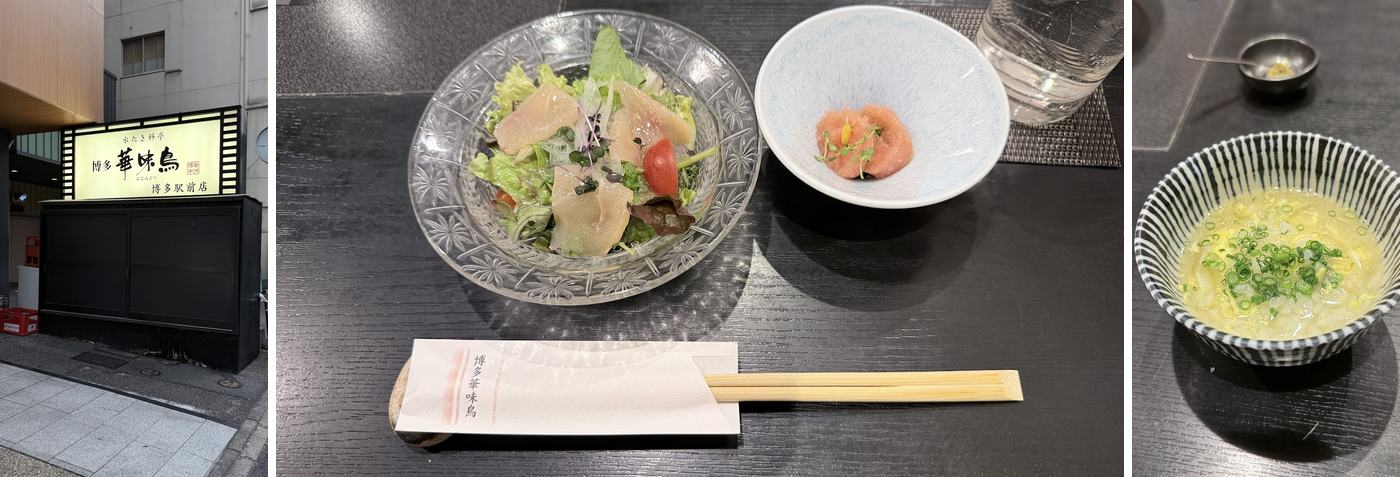
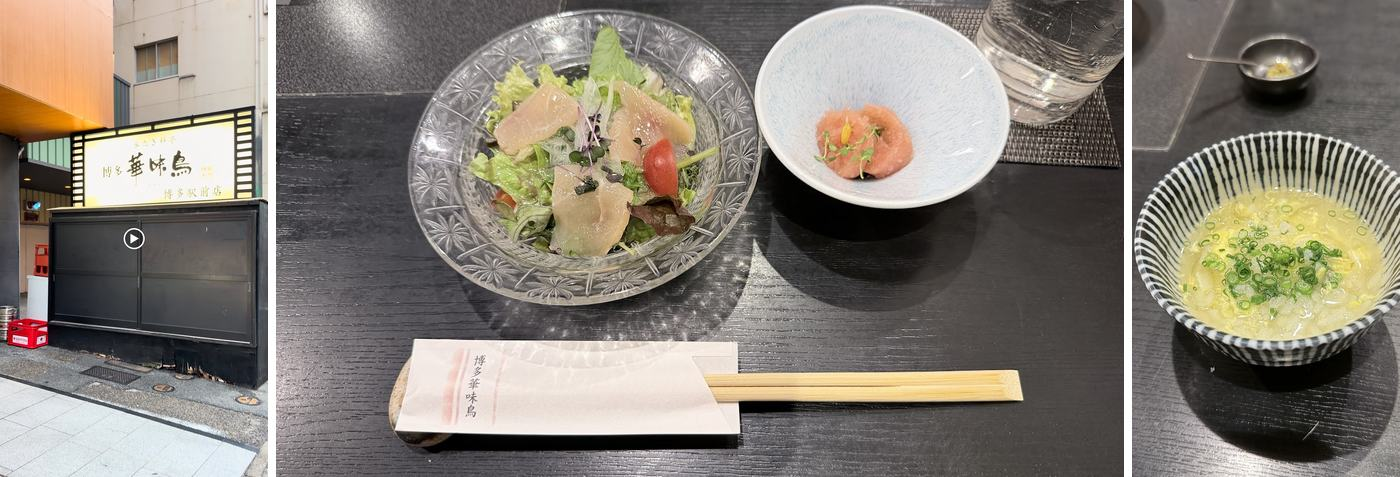
九州: shop intros for 暖暮, 鰻のエイト, むらた, 華味鳥, 勝烈亭, 吉吾, かさの家, 天山
Claude-Session: https://claude.ai/code/session_01YKvPvfkhjaPv18r36TCYqA

Changed region(s): [[0.0, 0.0, 0.215, 1.0]]

diff --git a/content/posts/2026-10-24-kyushu-first-trip/index.md b/content/posts/2026-10-24-kyushu-first-trip/index.md
@@ -63,10 +63,19 @@ cover:
 
 ## 🗓 12/9：福岡・博多
 
-{{< figure src="gallery/01-hanamidori.jpg" caption="博多華味鳥的水炊鍋：前菜、湯頭，最後煮成雜炊" align="center" >}}
+### 博多華味鳥 博多站前店（水炊鍋）
+
+{{< figure src="gallery/01-hanamidori.jpg" caption="左：博多華味鳥 博多站前店；中：前菜；右：最後煮成的雜炊" align="center" >}}
 
 第一天傍晚抵達，住博多站附近的 **VIA INN**。晚餐吃福岡名物 **水炊鍋（水炊き）**：
 雞骨熬的白湯先喝一碗，再下雞肉和蔬菜，最後加飯和蛋煮成**雜炊**，是整趟最暖胃的一餐。
+
+| 項目 | 內容 |
+|---|---|
+| 📍 地點 | 博多站前（博多駅前店）<br>[Google 地圖](https://www.google.com/maps/search/?api=1&query=博多華味鳥+博多駅前店) |
+| 🍲 必點 | 水炊鍋套餐，最後一定要加**雜炊** |
+| 💡 小撇步 | 有**中文說明**教你怎麼吃，店員也會幫忙 |
+{.trip-facts}
 
 {{< figure src="gallery/02-hakata-xmas.jpg" caption="博多站前的聖誕燈飾和聖誕樹" align="center" >}}
 
@@ -105,9 +114,12 @@ cover:
 
 {{< figure src="gallery/08-bspeak.jpg" caption="B-speak 的 P-roll 瑞士捲" align="center" >}}
 
-- 🍰 **B-speak**：由布院最有名的**瑞士捲（P-roll）**，蛋糕超鬆軟，常常中午前就賣完。
+- 🍰 **B-speak**：由布院最有名的**瑞士捲（P-roll）**，蛋糕超鬆軟、奶油很輕，常常中午前就賣完，**建議一到由布院就先去買**。
+- 🍗 **中津炸雞 吉吾（KICHIGO）**：大分中津是日本炸雞的發源地，湯之坪街道上的吉吾**排隊人潮不斷**，現炸的炸雞外皮酥脆、肉汁很多，元祖炸雞（雞腿）3 個 ¥570 起，邊走邊吃剛好。
 - 🍫 **Snoopy Chocolat**：史努比主題的巧克力店，造型很可愛。
 - 🐐 **由布院 Floral Village**：英國小鎮風格的園區，有小動物和可愛的店。
+
+{{< figure src="gallery/08b-kichigo.jpg" caption="中津炸雞 吉吾：現炸的炸雞" align="center" >}}
 
 {{< figure src="gallery/09-floral-village.jpg" caption="Floral Village：左：小山羊；右：黃色的復古小車" align="center" >}}
 
@@ -157,9 +169,19 @@ cover:
 
 ### 熊本站：勝烈亭豬排
 
+{{< figure src="gallery/16-katsuretsutei.jpg" caption="左：勝烈亭 熊本站店；右：厚切炸豬排" align="center" >}}
+
+晚上到熊本，在熊本站吃**勝烈亭（かつれつ亭）**。熊本最有名的炸豬排店之一，
+豬排**外皮酥脆、肉很厚又多汁**。
+
+| 項目 | 內容 |
+|---|---|
+| 📍 地點 | JR 熊本站<br>[Google 地圖](https://www.google.com/maps/search/?api=1&query=勝烈亭+熊本駅) |
+| 💡 小撇步 | 晚餐時段要排隊，也可以**外帶便當**在車上吃 |
+{.trip-facts}
+
 {{< figure src="gallery/16-kumamoto-station.jpg" caption="左：勝烈亭的炸豬排；右：熊本站的熊本熊" align="center" >}}
 
-晚上到熊本，在熊本站吃**勝烈亭**的炸豬排，外皮酥脆、肉很厚。
 熊本站裡到處都是**熊本熊**，一出車站就有熊本熊在等你。
 
 ---
@@ -239,9 +261,37 @@ cover:
 從博多搭直達巴士「旅人」約 40 分鐘到太宰府，**學問之神菅原道真**的神社，考生和學生必拜。
 本殿目前正在整修，旁邊有一座屋頂長滿植物的**臨時本殿**，很特別。
 
-參道上一定要吃**梅枝餅（梅ヶ枝餅）**，外皮烤得酥香、裡面是紅豆餡，現烤的最好吃。
+### 太宰府參道吃什麼
 
-{{< figure src="gallery/23-dazaifu-food.jpg" caption="左：熱呼呼的梅枝餅；右：午餐的豚骨拉麵" align="center" >}}
+**🍡 かさの家（梅枝餅）**
+
+參道上一定要吃**梅枝餅（梅ヶ枝餅）**，外皮烤得酥香、裡面是紅豆餡，現烤的最好吃。
+參道上有很多家在賣，我買的是老店 **かさの家**，**一個 ¥150**，要買多個看價目表就很清楚。
+
+{{< figure src="gallery/23-umegae.jpg" caption="左：かさの家的梅枝餅；右：梅枝餅價目表" align="center" >}}
+
+**🍓 天山（草莓大福）**
+
+參道上的和菓子店 **天山**，招牌是用福岡**甘王草莓（あまおう）**做的**草莓大福**，
+一整顆大草莓放在白色麻糬上，看起來超可愛，酸甜剛好。
+
+{{< figure src="gallery/23b-tenzan.jpg" caption="左：天山的甘王草莓大福；右：店頭排滿的草莓大福" align="center" >}}
+
+**🍜 暖暮拉麵 太宰府站前店（午餐）**
+
+**暖暮（DANBO）**是福岡的人氣豚骨拉麵連鎖，曾拿下**九州拉麵總選舉第一名**。
+湯頭是濃郁但不油膩的豚骨，麵條是博多細麵；想吃辣可以點**烈火拉麵**。
+太宰府站前店就在車站旁，**逛完參道剛好來吃**。
+
+{{< figure src="gallery/23c-danbo.jpg" caption="左：暖暮 太宰府站前店；右：半熟玉子拉麵" align="center" >}}
+
+| 項目 | 內容 |
+|---|---|
+| 📍 地址 | 太宰府市宰府 1-14-24<br>[Google 地圖](https://www.google.com/maps/search/?api=1&query=ラーメン暖暮+太宰府駅前店) |
+| 💰 價格 | 拉麵 ¥880<br>半熟玉子拉麵 ¥1,030 |
+| 💳 付款 | **只收無現金支付**<br>（信用卡、電子錢包、QR） |
+| 🍜 加點 | 替玉（加麵）¥200 |
+{.trip-facts}
 
 {{< figure src="gallery/24-dazaifu-station.jpg" caption="左：太宰府站；右：西鐵電車" align="center" >}}
 
@@ -257,9 +307,24 @@ cover:
 
 {{< figure src="gallery/26-hakata-old-town.jpg" caption="左：金黃的銀杏大道；右：舊市街的紅鳥居" align="center" >}}
 
-晚上吃了**鰻魚飯**，有蒸籠鰻魚和石鍋鰻魚飯，搭配九州的地酒。
+### 鰻のエイト（鰻魚飯）
 
-{{< figure src="gallery/27-unagi.jpg" caption="左：鰻魚飯；右：石鍋鰻魚飯" align="center" >}}
+{{< figure src="gallery/27-unagi.jpg" caption="左：鰻のエイト的門簾；中：蒸籠鰻魚飯；右：鰻魚牛肉石燒御膳" align="center" >}}
+
+晚餐在中洲的 **鰻のエイト（unagi no eito）**，門簾上的「∞」很好認。
+店裡用**九州的甜醬油**做醬汁，我們點了兩種：
+
+- 🍱 **せいろむし御膳（蒸籠鰻魚飯）**：醬汁拌飯後鋪上鰻魚和玉子燒，放進蒸籠蒸，飯軟嫩入味。
+- 🔥 **鰻と牛肉の石焼き御膳**：鰻魚加上調味牛肉、玉子燒，放在熱石鍋裡，最後鍋巴超香。
+
+兩種都可以照桌上的說明**分三種吃法**：直接吃、加佐料、最後倒高湯做成茶泡飯。
+
+| 項目 | 內容 |
+|---|---|
+| 📍 地址 | 福岡市博多區中洲 4-1-11<br>[Google 地圖](https://share.google/mgWfRvBS5W5ui1xGq) |
+| 💰 價格 | 兩種御膳同價<br>上 ¥3,850／特上 ¥4,550<br>極上 ¥5,350 |
+| 🚇 交通 | 地下鐵「中洲川端站」走路即到 |
+{.trip-facts}
 
 ---
 
@@ -271,21 +336,39 @@ cover:
 
 {{< figure src="gallery/29-momiji2.jpg" caption="左：紅色的鳥居；右：附近的池塘" align="center" >}}
 
-中午吃了**十割蕎麥麵**，下午在博多站買**明太子**伴手禮，再去機場。
+### 信州そば むらた（蕎麥麵）
 
-{{< figure src="gallery/30-soba-souvenir.jpg" caption="左：十割蕎麥麵和天婦羅；右：明太子口味洋芋片" align="center" >}}
+{{< figure src="gallery/30-soba.jpg" caption="左：むらた的入口；中：牡蠣天婦羅蕎麥麵；右：上天婦羅旨辛肉蕎麥麵" align="center" >}}
+
+博多舊市街裡的老字號**手打蕎麥麵店**，入口是石牆和格子門，很有氣氛。開店前就有人排隊，門口有**登記表**，寫上名字等叫號。
+
+招牌是**數量限定的十割蕎麥**（100% 蕎麥粉），香氣很濃；冬天限定的**牡蠣天婦羅蕎麥麵**也很推，天婦羅裡的牡蠣很飽滿。
+
+| 項目 | 內容 |
+|---|---|
+| 📍 地址 | 福岡市博多區冷泉町 2-9-1<br>[Google 地圖](https://share.google/FMcUsvM3HoK4N1clr) |
+| 💰 價格 | 十割そば ¥1,150（數量限定）<br>牡蠣天そば ¥2,200（溫）<br>上天ぷら旨辛肉そば ¥3,100 |
+| 🕘 時間 | 約 11:30–21:00，**週一公休** |
+| 🚇 交通 | 地下鐵「祇園站」走路約 5 分鐘 |
+{.trip-facts}
+
+### 博多站買伴手禮
+
+{{< figure src="gallery/31-souvenir.jpg" caption="左：博多站的明太子專櫃；右：明太子口味洋芋片" align="center" >}}
+
+下午在博多站的伴手禮區買**明太子**，各家品牌都有試吃，也有**明太子洋芋片**、明太子仙貝這種方便帶的零食。
 
 ---
 
 ## 🍽 九州必吃整理
 
-| 地區 | 必吃 |
+| 地區 | 我吃了這些 |
 |---|---|
-| 福岡・博多 | 水炊鍋、豚骨拉麵、明太子、鰻魚飯 |
-| 由布院 | B-speak 瑞士捲、溫泉旅館會席料理 |
+| 福岡・博多 | 博多華味鳥（水炊鍋）<br>鰻のエイト（鰻魚飯）<br>信州そば むらた（蕎麥麵）<br>博多站明太子 |
+| 由布院 | B-speak 瑞士捲<br>吉吾 中津炸雞<br>溫泉旅館會席料理 |
 | 阿蘇 | 阿蘇牛奶、牛奶布丁 |
-| 熊本 | 勝烈亭炸豬排、桂花拉麵（太肉麵） |
-| 太宰府 | 梅枝餅 |
+| 熊本 | 勝烈亭（炸豬排）<br>桂花拉麵（太肉麵） |
+| 太宰府 | かさの家（梅枝餅）<br>天山（草莓大福）<br>暖暮（豚骨拉麵） |
 {.trip-facts}
 
 ## 出發前檢查清單
@@ -301,4 +384,4 @@ cover:
 
 第一次去九州，6 天剛好把福岡、由布院、阿蘇、熊本、太宰府都走一遍。觀光列車、溫泉、火山、熊本熊，每一天都很不一樣。下一站見 🧸
 
-<small>資料來源：[熊本ラーメン 桂花本店（tabiiro）](https://tabiiro.jp/gourmet/s/308658-kumamoto-keika-raumen/)、[桂花ラーメン本店（Retty）](https://retty.me/restaurant/100000064735/)、[熊本城入園料（熊本市）](https://www.city.kumamoto.jp/kiji00368355/index.html)、[熊本城入園券（VELTRA）](https://www.veltra.com/jp/japan/kumamoto/a/193493)</small>
+<small>資料來源：[鰻のエイト（ぐるなび）](https://gurunavi.com/ja/nbcv903/rev/rst)、[信州そば むらた（HOT PEPPER）](https://www.hotpepper.jp/strJ000112524/)、[暖暮 太宰府駅前店（NAVITIME）](https://www.navitime.co.jp/category/0304/40221/)、[熊本ラーメン 桂花本店（tabiiro）](https://tabiiro.jp/gourmet/s/308658-kumamoto-keika-raumen/)、[桂花ラーメン本店（Retty）](https://retty.me/restaurant/100000064735/)、[熊本城入園料（熊本市）](https://www.city.kumamoto.jp/kiji00368355/index.html)、[熊本城入園券（VELTRA）](https://www.veltra.com/jp/japan/kumamoto/a/193493)</small>
